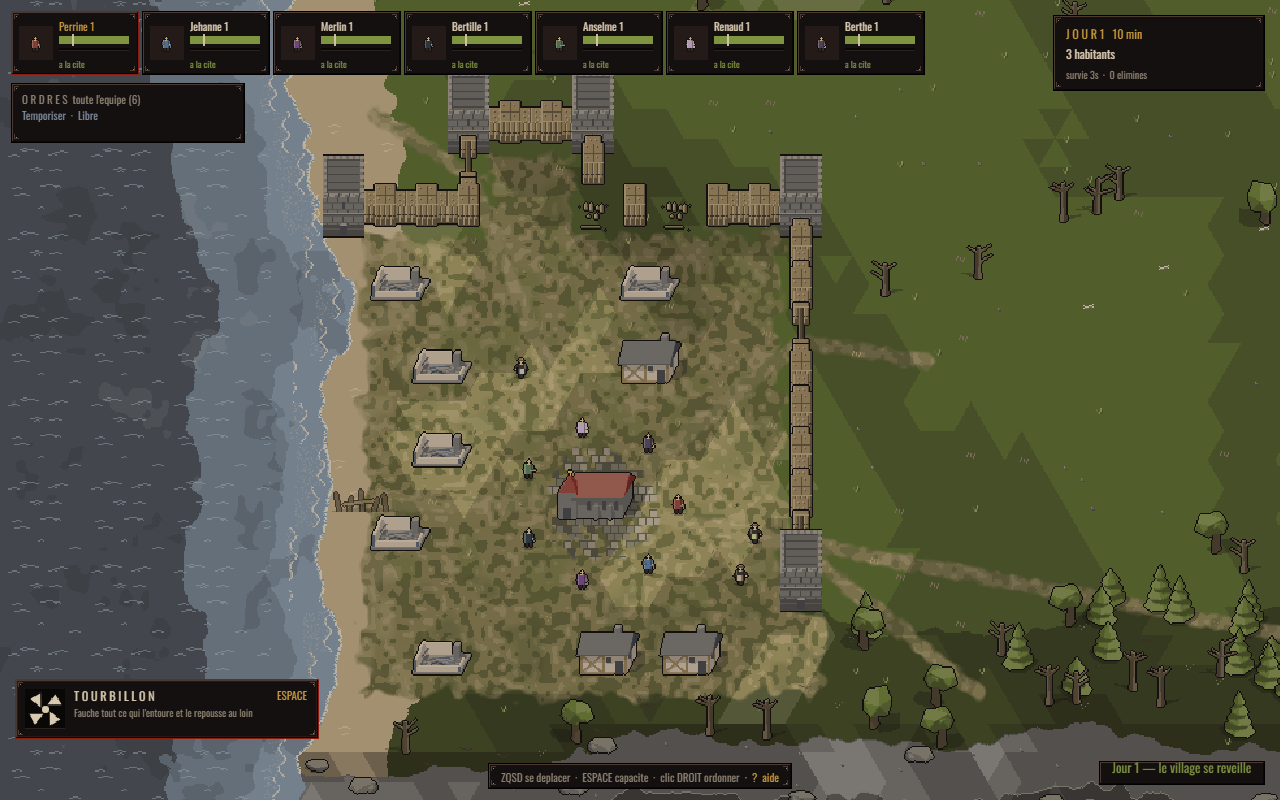
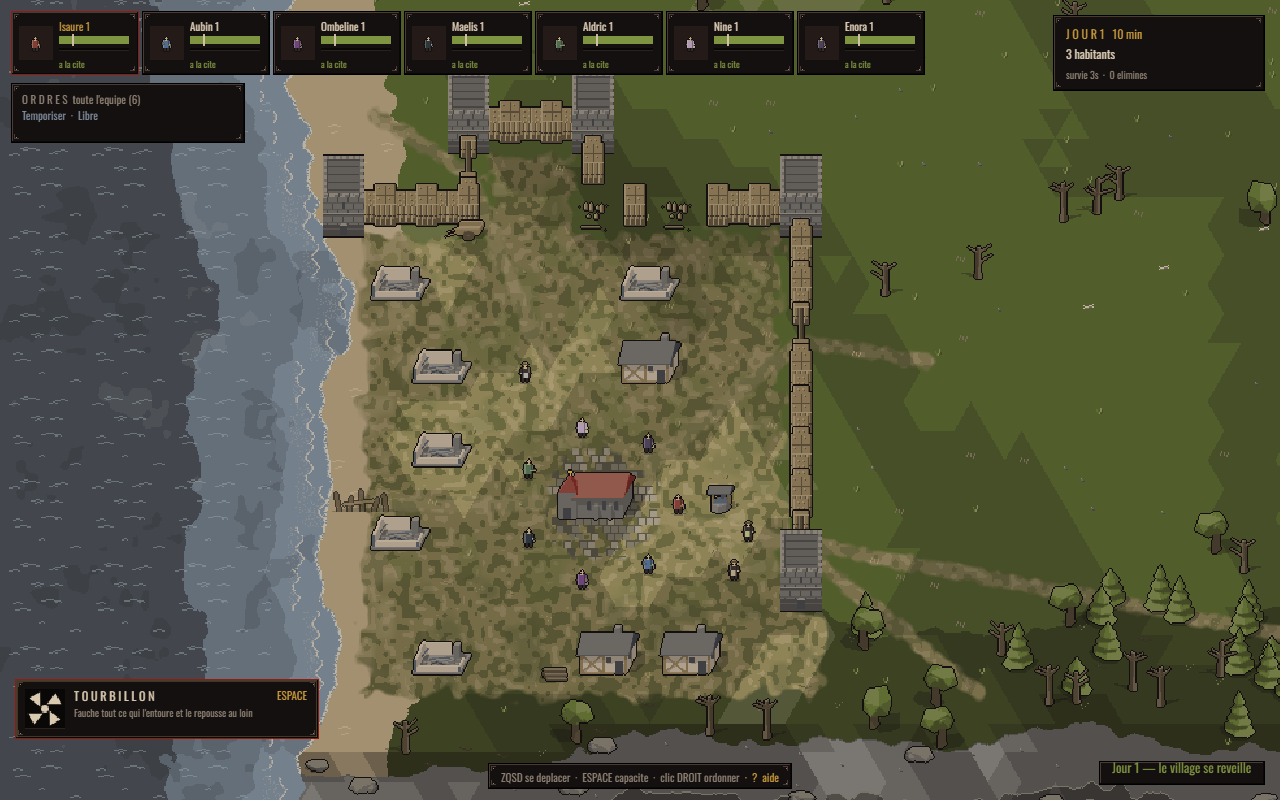
feat(village): les details de vie — un puits, des tonneaux, du bois, une charrette
Quatre objets de plus dans l'atelier Blender, rendus comme le reste du decor
(avec un dessin de secours dans decor.ts), et poses par la scene d'apres la
graine du village : le puits a trois cases de l'eglise, des tonneaux et un
tas de bois contre les maisons debout, une charrette en retrait d'une porte —
jamais sur une rue ni sur une case prise. Juges sur planche agrandie (les
roues de la charrette passees en ecorce pour se detacher de la caisse) et sur
captures. Du decor : rien qui bloque, rien qui se sauve. 524 tests verts.

diff --git a/src/scenes/ArenaScene.ts b/src/scenes/ArenaScene.ts
@@ -20,6 +20,10 @@ import {
   CONIFERES,
   ROCHERS,
   decorParCle,
+  CLE_CHARRETTE,
+  CLE_PUITS,
+  CLE_TAS_DE_BOIS,
+  CLE_TONNEAU,
 } from "../game/dessin/decor";
 import { origineDe, textureDe } from "../game/constructions";
 import { abimerLeSol,
@@ -115,6 +119,7 @@ import { Village, type Villageois } from "../game/village";
 import { CASE, COLONNES, Grille, IMPOSENT_UNE_DISTANCE, LIGNES } from "../core/grille";
 import { cleCase, genererVillage, graineDeVillage, type PlanVillage,
   tracerLesRues,
+  type Segment,
 } from "../core/village";
 import {
   CASES_LIBRES_AUTOUR_DES_BATIMENTS,
@@ -544,6 +549,8 @@ export class ArenaScene extends Phaser.Scene {
   private graineVillage = 0;
   /** Le village tire de la graine : l'enceinte, les maisons, la place (§4.24) */
   private planVillage!: PlanVillage;
+  /** Les rues du village, tracees avec le plan : le sol les peint, le decor s'en ecarte. */
+  private ruesDuVillage: Segment[] = [];
   /** Les murs et les tours (DESIGN.md §4.20) */
   constructions!: Constructions;
   /** Les champs de ble : ils poussent, et une horde les ruine (§4.18) */
@@ -816,11 +823,11 @@ export class ArenaScene extends Phaser.Scene {
     // Le sol du village (§4.24) : la place en terre battue, les rues vers les
     // portes et les lieux de travail, le parvis pave — peints dans la carte
     // cuite, une fois, pour cette graine.
-    dessinerLeSolDuVillage(
-      this,
-      this.planVillage,
-      tracerLesRues(this.planVillage, EGLISE, [...POSTES.map((p) => p.position), { x: PORT.x, y: PORT.y }]),
-    );
+    this.ruesDuVillage = tracerLesRues(this.planVillage, EGLISE, [
+      ...POSTES.map((p) => p.position),
+      { x: PORT.x, y: PORT.y },
+    ]);
+    dessinerLeSolDuVillage(this, this.planVillage, this.ruesDuVillage);
     this.construireDecor();
 
     this.equipe = this.physics.add.group();
@@ -1352,6 +1359,85 @@ export class ArenaScene extends Phaser.Scene {
   }
 
   /**
+   * Les details de vie (§4.24, 19 septembre 2026) : un puits sur la place, des
+   * tonneaux et du bois contre les maisons debout, une charrette en retrait
+   * d'une porte. Du decor tire de la graine du village — rien qui bloque, rien
+   * qui se sauve, jamais sur une rue.
+   *
+   * ⚠ Ils ne suivent pas une maison qu'on deplace ou qu'on demolit : c'est le
+   * prix d'un decor, et il est accepte pour l'instant.
+   */
+  private poserLesDetailsDeVie(): void {
+    const plan = this.planVillage;
+    const rng = new Rng(plan.graine + 97);
+    const distanceAuSegment = (x: number, y: number, s: Segment) => {
+      const dx = s.a.x - s.de.x;
+      const dy = s.a.y - s.de.y;
+      const l2 = dx * dx + dy * dy;
+      const t = l2 === 0 ? 0 : Math.max(0, Math.min(1, ((x - s.de.x) * dx + (y - s.de.y) * dy) / l2));
+      return Math.hypot(x - (s.de.x + dx * t), y - (s.de.y + dy * t));
+    };
+    const libre = (x: number, y: number) => {
+      const c = this.grille.caseEn(x, y);
+      if (!c || c.occupation !== "libre" || !plan.place.has(cleCase(c.colonne, c.ligne))) return false;
+      return !this.ruesDuVillage.some((r) => distanceAuSegment(x, y, r) < 14);
+    };
+    const poser = (x: number, y: number, cle: string, miroir = rng.next() < 0.5) => {
+      if (!this.textures.exists(cle)) return;
+      this.add.image(x, y, cle).setOrigin(0.5, decorParCle(cle).origineY).setDepth(y).setFlipX(miroir);
+    };
+
+    // Le puits : a trois cases de l'eglise, dans la premiere direction qui a de la place.
+    const DIRECTIONS = [[3, 0], [0, 3], [-3, 0], [0, -3], [3, 3], [3, -3], [-3, 3], [-3, -3]] as const;
+    const depart = Math.floor(rng.next() * DIRECTIONS.length);
+    for (let i = 0; i < DIRECTIONS.length; i++) {
+      const [dc, dl] = DIRECTIONS[(depart + i) % DIRECTIONS.length]!;
+      const c = Grille.centreCase(plan.centre.colonne + dc, plan.centre.ligne + dl);
+      if (!libre(c.x, c.y)) continue;
+      poser(c.x, c.y + 6, CLE_PUITS, false);
+      break;
+    }
+
+    // Des tonneaux a droite des maisons debout, du bois a gauche — pas partout.
+    for (const maison of this.maisons.toutes) {
+      if (!maison.debout) continue;
+      const centre = maison.centre;
+      const droite = { x: centre.x + CASE + 8, y: centre.y + CASE - 6 };
+      if (rng.next() < 0.75 && libre(droite.x, droite.y)) {
+        poser(droite.x, droite.y, CLE_TONNEAU);
+        if (rng.next() < 0.5) poser(droite.x + 9, droite.y + 3, CLE_TONNEAU);
+      }
+      const gauche = { x: centre.x - CASE - 12, y: centre.y + CASE - 8 };
+      if (rng.next() < 0.6 && libre(gauche.x, gauche.y)) poser(gauche.x, gauche.y, CLE_TAS_DE_BOIS);
+    }
+
+    // Une charrette, en retrait de la premiere rue qui sort par une porte.
+    const portes = new Set(
+      plan.enceinte
+        .filter((m) => m.piece === "porte")
+        .map((m) => {
+          const c = Grille.centreCase(m.colonne, m.ligne);
+          return `${c.x},${c.y}`;
+        }),
+    );
+    const rue = this.ruesDuVillage.find((r) => portes.has(`${r.a.x},${r.a.y}`));
+    if (rue) {
+      const dx = rue.de.x - rue.a.x;
+      const dy = rue.de.y - rue.a.y;
+      const l = Math.hypot(dx, dy) || 1;
+      const ux = dx / l;
+      const uy = dy / l;
+      for (const cote of [1, -1]) {
+        const x = rue.a.x + ux * 48 - uy * 22 * cote;
+        const y = rue.a.y + uy * 48 + ux * 22 * cote;
+        if (!libre(x, y)) continue;
+        poser(x, y, CLE_CHARRETTE, cote < 0);
+        break;
+      }
+    }
+  }
+
+  /**
    * Le village : ce que le plan de la graine en dit (§4.24). Il est adosse a
    * la mer et a la montagne, et ses habitants arrivent avec le village vivant.
    */
@@ -1366,6 +1452,7 @@ export class ArenaScene extends Phaser.Scene {
     this.maisons = new Maisons(this, this.grille);
     if (this.reprise?.maisons) this.maisons.reprendre(this.reprise.maisons);
     else this.maisons.poserLePlan(this.planVillage.maisons);
+    this.poserLesDetailsDeVie();
 
     // ⚠ **Plus de texte « LE VILLAGE » qui flotte, et plus de disque de terre
     // battue** (§4.24, §4.30) : on reconnait un lieu a ce qu'il y a dessus. Le

diff --git a/src/game/dessin/decor.ts b/src/game/dessin/decor.ts
@@ -1,7 +1,12 @@
 import type Phaser from "phaser";
 import { Toile } from "./pinceau";
 import { bruit } from "./bruit";
-import { ECORCE, FEUILLE, PIERRE, ROCHE, melanger, type Matiere } from "./palette";
+import { ECORCE, FEUILLE, PIERRE, ROCHE, melanger, type Matiere,
+  ARDOISE,
+  BOIS,
+  EAU,
+  FER,
+} from "./palette";
 
 /**
  * Le decor qui pousse et qui traine : arbres, rochers, souches (DESIGN.md §4.30).
@@ -40,6 +45,13 @@ export interface Decor {
 const ARBRE = { largeur: 40, hauteur: 46, pied: 40 };
 const ROCHER = { largeur: 28, hauteur: 20, pied: 16 };
 const SOUCHE = { largeur: 14, hauteur: 14, pied: 10 };
+// Les details de vie (§4.24, 19 septembre 2026), rendus par Blender comme le
+// reste du decor : un puits, un tonneau, un tas de bois, une charrette. Les
+// tailles sont celles de `rendre.py` (le pied y est un de plus).
+const PUITS = { largeur: 26, hauteur: 30, pied: 26 };
+const TONNEAU = { largeur: 14, hauteur: 16, pied: 13 };
+const TAS_DE_BOIS = { largeur: 26, hauteur: 18, pied: 15 };
+const CHARRETTE = { largeur: 36, hauteur: 22, pied: 19 };
 
 /** Les arbres morts, les vivants, les coniferes, les rochers : leurs cles. */
 export const ARBRES_MORTS = [0, 1, 2, 3].map((i) => `decor-arbre-mort-${i}`);
@@ -47,6 +59,10 @@ export const ARBRES_VIVANTS = [0, 1, 2].map((i) => `decor-arbre-${i}`);
 export const CONIFERES = [0, 1].map((i) => `decor-conifere-${i}`);
 export const ROCHERS = [0, 1, 2].map((i) => `decor-rocher-${i}`);
 export const CLE_SOUCHE = "decor-souche";
+export const CLE_PUITS = "decor-puits";
+export const CLE_TONNEAU = "decor-tonneau";
+export const CLE_TAS_DE_BOIS = "decor-tas-de-bois";
+export const CLE_CHARRETTE = "decor-charrette";
 
 /** Tous les arbres, morts et vivants, pour semer une foret. */
 export const ARBRES = [...ARBRES_MORTS, ...ARBRES_VIVANTS, ...CONIFERES];
@@ -254,6 +270,10 @@ export const DECORS: readonly Decor[] = [
   ...CONIFERES.map((cle) => decor(cle, ARBRE)),
   ...ROCHERS.map((cle) => decor(cle, ROCHER)),
   decor(CLE_SOUCHE, SOUCHE),
+  decor(CLE_PUITS, PUITS),
+  decor(CLE_TONNEAU, TONNEAU),
+  decor(CLE_TAS_DE_BOIS, TAS_DE_BOIS),
+  decor(CLE_CHARRETTE, CHARRETTE),
 ];
 
 export function decorParCle(cle: string): Decor {
@@ -269,9 +289,50 @@ export function peindreDecor(cle: string): Toile {
   else if (cle.startsWith("decor-arbre")) peindreArbreVivant(toile, index);
   else if (cle.startsWith("decor-conifere")) peindreConifere(toile, index);
   else if (cle.startsWith("decor-rocher")) peindreRocher(toile, index);
+  else if (cle === CLE_PUITS) peindrePuits(toile);
+  else if (cle === CLE_TONNEAU) peindreTonneau(toile);
+  else if (cle === CLE_TAS_DE_BOIS) peindreTasDeBois(toile);
+  else if (cle === CLE_CHARRETTE) peindreCharrette(toile);
   else peindreSouche(toile);
   toile.contour();
   return toile;
+}
+
+// ------------------------------------------------- les details de vie, en secours
+
+/** Le secours du puits : le toit, deux poteaux, la margelle et l'eau. */
+function peindrePuits(t: Toile): void {
+  const { pied } = PUITS;
+  t.rect(4, 3, 18, 3, ARDOISE.sombre);
+  t.rect(6, 6, 2, pied - 12, BOIS.corps);
+  t.rect(18, 6, 2, pied - 12, BOIS.corps);
+  t.rect(5, pied - 8, 16, 7, PIERRE.corps);
+  t.rect(8, pied - 7, 10, 3, EAU.corps);
+}
+
+/** Le secours du tonneau : une douve et deux cercles. */
+function peindreTonneau(t: Toile): void {
+  const { pied } = TONNEAU;
+  t.rect(3, pied - 11, 8, 10, BOIS.corps);
+  t.rect(3, pied - 9, 8, 1, FER.corps);
+  t.rect(3, pied - 4, 8, 1, FER.corps);
+}
+
+/** Le secours du tas de bois : trois rangs de buches. */
+function peindreTasDeBois(t: Toile): void {
+  const { pied } = TAS_DE_BOIS;
+  t.rect(3, pied - 4, 20, 3, ECORCE.corps);
+  t.rect(3, pied - 8, 20, 3, ECORCE.sombre);
+  t.rect(5, pied - 12, 16, 3, ECORCE.corps);
+}
+
+/** Le secours de la charrette : la caisse, deux roues, les brancards. */
+function peindreCharrette(t: Toile): void {
+  const { pied } = CHARRETTE;
+  t.rect(12, pied - 10, 18, 7, BOIS.corps);
+  t.disque(16, pied - 3, 3, ECORCE.sombre);
+  t.disque(27, pied - 3, 3, ECORCE.sombre);
+  t.rect(3, pied - 5, 9, 1, BOIS.sombre);
 }
 
 /**

diff --git a/scripts/blender/monde.py b/scripts/blender/monde.py
@@ -311,3 +311,60 @@ def souche(a, graine=0):
     a.cone("ecorce", 0.3, 0.45, (0, 0, 0), cotes=6, r_haut=0.26)
     a.branche("ecorce", (0.2, 0, 0.05), (0.55, -0.1, 0.02), 0.07)
     return (0, 0)
+
+
+# ----------------------------------------------------- les details de vie
+# Les objets qui font qu'un village a l'air habite (§4.24, 19 septembre 2026) :
+# un puits sur la place, des tonneaux et du bois contre les maisons, une
+# charrette pres d'une porte. Petits, poses au sol, dans les matieres du jeu.
+
+def puits(a):
+    """Une margelle de pierre a huit pans, l'eau dedans, deux poteaux et un petit toit."""
+    a.cone("pierre", 0.7, 0.55, (0, 0, 0), cotes=8, r_haut=0.64)
+    a.cone("eau", 0.5, 0.5, (0, 0, 0.08), cotes=8, r_haut=0.5)
+    for x in (-0.6, 0.6):
+        a.boite("bois", (0.12, 0.12, 1.55), (x, 0, 0.775))
+    a.boite("bois", (1.32, 0.09, 0.09), (0, 0, 1.5))
+    a.toit("ardoise", 0, 1.5, 0.9, 1.55, 0.42, deb=0.08, ep=0.06)
+    a.boite("fer", (0.24, 0.24, 0.26), (0.15, 0, 1.0))
+    return (0, -0.7)
+
+
+def tonneau(a):
+    """Un tonneau ventru : deux troncs de cone bout a bout, deux cercles de fer."""
+    a.cone("bois", 0.29, 0.4, (0, 0, 0), cotes=8, r_haut=0.36)
+    a.cone("bois", 0.36, 0.4, (0, 0, 0.4), cotes=8, r_haut=0.29)
+    a.cone("fer", 0.335, 0.07, (0, 0, 0.14), cotes=8, r_haut=0.35)
+    a.cone("fer", 0.35, 0.07, (0, 0, 0.59), cotes=8, r_haut=0.335)
+    return (0, -0.36)
+
+
+def tas_de_bois(a):
+    """Six buches couchees, en trois rangs qui se resserrent."""
+    rangs = [(-0.34, 0.16), (0.0, 0.16), (0.34, 0.16), (-0.17, 0.44), (0.17, 0.44), (0.0, 0.72)]
+    for i, (y, z) in enumerate(rangs):
+        long = 1.5 + (0.1 if i % 2 else -0.05)
+        o = a.cone("ecorce", 0.16, long, (0, y, z - long / 2), cotes=7, r_haut=0.16)
+        o.rotation_euler = (0, math.pi / 2, 0)
+    return (0, -0.5)
+
+
+def charrette(a):
+    """Une charrette a deux roues, ses brancards poses a terre vers la gauche."""
+    L, P, H = 1.7, 0.95, 0.42
+    a.boite("bois", (L, P, 0.08), (0, 0, 0.5))
+    for y in (-P / 2, P / 2):
+        a.boite("bois", (L, 0.06, H), (0, y, 0.5 + H / 2))
+    a.boite("bois", (0.06, P, H), (L / 2, 0, 0.5 + H / 2))
+    # les roues en ecorce, plus sombres que la caisse : en bois, elles se
+    # fondaient dedans (juge sur planche)
+    for y in (-P / 2 - 0.09, P / 2 + 0.09):
+        o = a.cone("ecorce", 0.42, 0.1, (0.1, y, 0.42 - 0.05), cotes=10, r_haut=0.42)
+        o.rotation_euler = (math.pi / 2, 0, 0)
+        o.location = (0.1, y, 0.42)
+        h = a.cone("fer", 0.1, 0.16, (0.1, y, 0.42 - 0.08), cotes=6, r_haut=0.1)
+        h.rotation_euler = (math.pi / 2, 0, 0)
+        h.location = (0.1, y, 0.42)
+    for y in (-0.3, 0.3):
+        a.branche("bois", (-L / 2, y, 0.5), (-L / 2 - 0.85, y, 0.08), 0.045)
+    return (0, -P / 2 - 0.1)

diff --git a/scripts/blender/rendre.py b/scripts/blender/rendre.py
@@ -67,6 +67,11 @@ def sprites():
     for i in range(3):
         s[f"decor-rocher-{i}"] = (lambda a, i=i: monde.rocher(a, i), 28, 20, 17)
     s["decor-souche"] = (lambda a: monde.souche(a), 14, 14, 11)
+    # Les details de vie (§4.24) : tailles dans `decor.ts` (PUITS, TONNEAU, TAS_DE_BOIS, CHARRETTE).
+    s["decor-puits"] = (lambda a: monde.puits(a), 26, 30, 27)
+    s["decor-tonneau"] = (lambda a: monde.tonneau(a), 14, 16, 14)
+    s["decor-tas-de-bois"] = (lambda a: monde.tas_de_bois(a), 26, 18, 16)
+    s["decor-charrette"] = (lambda a: monde.charrette(a), 36, 22, 20, 20)
     return s
 
 

diff --git a/SUITE.md b/SUITE.md
@@ -1038,9 +1038,19 @@ relief se voit encore**. Jamais sur l'eau ni la roche.
 ⚠ **Jugé sur capture, en deux passes** : au premier jet, un parvis de 60 px était une dalle
 grise qui mangeait le tiers du village ; ramené à 44 px, pierre teintée de terre, usé vers
 le bord. Captures `captures/jeu/2026-09-19-sol-du-village/graine-{1,7,42}-{loin,pres}.png`
-(`npx tsx scripts/capturer-villages.ts 1,7,42 <dossier>`). **Ce qui manque encore** : les
-détails de vie (puits, tonneaux, tas de bois, charrette — des sprites Blender) et les
-chemins qui s'usent à l'usage (30 passages / 4 journées : un système, pas un dessin).
+(`npx tsx scripts/capturer-villages.ts 1,7,42 <dossier>`). **Les détails de vie** sont venus dans
+la foulée : quatre objets de plus dans l'atelier Blender (`scripts/blender/monde.py` :
+`puits`, `tonneau`, `tas_de_bois`, `charrette` ; tailles dans `rendre.py` et `decor.ts`,
+avec un dessin de secours), rendus par `npm run sprites -- decor-puits decor-tonneau
+decor-tas-de-bois decor-charrette`, et posés par `poserLesDetailsDeVie` : le puits à trois
+cases de l'église dans la première direction libre, des tonneaux à droite et du bois à gauche
+des maisons debout (pas toutes), une charrette en retrait de la première rue qui sort par une
+porte — jamais sur une rue, jamais sur une case prise, tirés de la graine du village. Jugés
+sur planche agrandie : les roues de la charrette, en bois comme la caisse, se fondaient
+dedans — passées en écorce. ⚠ **Du décor, pas des objets** : ils ne suivent pas une maison
+qu'on déplace ou démolit, on peut bâtir dessus, rien n'est sauvé. **Ce qui manque encore** :
+les cordes à linge, les filets et le feu, et les chemins qui s'usent à l'usage (30 passages
+/ 4 journées : un système, pas un dessin).
 
 **524 tests verts** (+6), `tsc` passe.
 

diff --git a/PROMPT-SUITE.md b/PROMPT-SUITE.md
@@ -65,10 +65,10 @@ Dans l'ordre où je te le suggère ; c'est à moi de trancher l'ordre, propose-l
    soir (`SUITE.md`, « Les restes du dépouillage ») : deux cases, seuil de 65, quatre actives
    (oublier ou acheter ; la fusion attend le jalon 6.5), paliers bois → fer pour le mur et la
    porte. Reste de ce point : **la pierre**, avec sa ressource, au bloc 7b.
-2. ✅ **Le sol du village** — place, rues et parvis peints le 19 septembre au soir, jugés sur
-   captures. Restent les **détails de vie** (puits, tonneaux, tas de bois, charrette : des
-   sprites Blender à fabriquer) et les **chemins qui s'usent** (un système : 30 passages,
-   effacés en 4 journées).
+2. ✅ **Le sol du village** — place, rues, parvis et détails de vie (puits, tonneaux, tas de
+   bois, charrette, en sprites Blender) le 19 septembre au soir, jugés sur captures. Restent
+   les cordes à linge, les filets et le feu, et les **chemins qui s'usent** (un système : 30
+   passages, effacés en 4 journées).
 3. **Les restes du bloc 7z** : **l'eau qui noie** (on s'enfonce, une bulle prévient le héros
    incarné — un avertissement, jamais une mort surprise) et **la disparition des ronds de
    poste** (quand la mine, le ponton et les bûches disent eux-mêmes où l'on travaille).

diff --git a/design/4.24-le-village-qu-on-amenage.md b/design/4.24-le-village-qu-on-amenage.md
@@ -204,9 +204,12 @@ dernier reste du bloc 7a), il a :
 - **des chemins qui s'usent à l'usage** (à faire) : ils se marquent là où les habitants
   passent vraiment (30 passages), et s'effacent quand un poste est abandonné (4 journées).
   Le village raconte comment on l'a joué ;
-- **des détails de vie** (à faire) : cordes à linge, tonneaux, charrettes, tas de bois,
-  filets qui sèchent, un puits, un feu. C'est la différence entre des maisons posées et un
-  endroit habité.
+- ✅ **des détails de vie** : un puits sur la place, des tonneaux et un tas de bois contre les
+  maisons debout, une charrette en retrait d'une porte — rendus par Blender comme le reste
+  du décor, tirés de la graine du village, jamais sur une rue. C'est la différence entre des
+  maisons posées et un endroit habité. Restent à faire : les cordes à linge, les filets qui
+  sèchent, le feu. ⚠ Ces objets sont du décor : ils ne suivent pas une maison qu'on déplace
+  ou qu'on démolit, et on peut bâtir dessus. Accepté pour l'instant.
 
 Tout ça se peint dans l'image de carte au démarrage de la partie (§4.21, §4.30) : **aucun
 coût par image**. La terre prend la clarté du relief qu'elle recouvre, et ne se pose jamais
